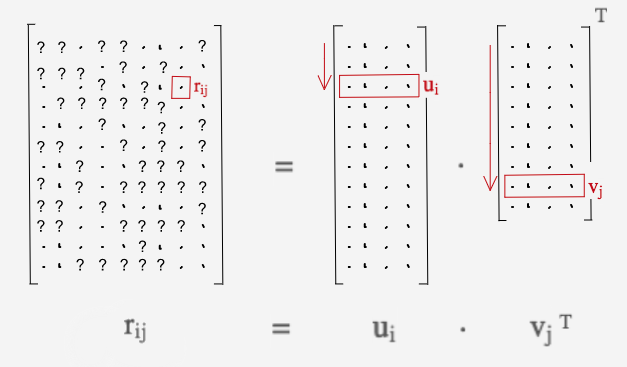
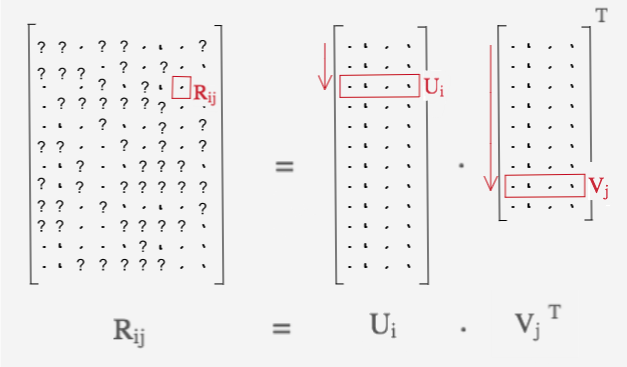
...

diff --git a/content/posts/Collaborative-Filtering-tensorflow.md b/content/posts/Collaborative-Filtering-tensorflow.md
@@ -8,8 +8,6 @@ author: "Safak Ozkan"
 
 ---
 
-<!-- ><p style="color:#cf494f">  $r_{ij}$   </p> -->
-
 ## 1. Problem Description
 We are given a rating matrix $R$ where only a small fraction of the entries $R_{ij}$ are provided; otherwise the rest is missing. The task is to predict those missing entries. As in most Machine Learning problems the assumption here is that there's an underlying stationary pattern as to how users rate the movies.
 
@@ -59,21 +57,21 @@ $U$: user feature matrix
 $V$: movies feature matrix    
 
 <img src="/Drawing.png" alt="Drawing" width="1000" />
-<font size="+1"><strong><p align="center">Figure 1. A conceptual sketch of the Ratings data matrix $R$ decomposed into its factors: user feature matrix, $U$, and movie feature matrix, $V$. Dots in the figure, $\cdot$, illustrate given values; and question marks, $?$, the missing values. Each entry $r_{ij}$ is expressed as a dot product of the user and movie embedding vectors $u_i$ and $v_j$, respectively.</strong></font>  
+<font size="+1"><strong><p align="center">Figure 1. A conceptual sketch of the Ratings data matrix $R$ decomposed into its factors: user feature matrix, $U$, and movie feature matrix, $V$. Dots in the figure, $\cdot$, illustrate given values; and question marks, $?$, the missing values. Each entry $R_{ij}$ is expressed as a dot product of the user and movie embedding vectors $U_i$ and $V_j$, respectively.</strong></font>  
 
 Hence, we formulate the problem as an **optimization problem** and search for $U$ and $V$ by minimizing the following loss function $L$.    
 
 $$argmin_{\ U,V}\ L = ||R - U \cdot V^T||_F^2$$
 
-> *An important point to make is that the Frobenius norm is computed only as a partial summation over the entries in $R$ where a rating is provided.*
+> *It's important to note that the Frobenius norm is computed only as a partial summation over the entries in $R$ where a rating is provided.*
 
 The optimization procedure searches for the values of all entries in $U$ and $V$. There are $(m+n) \times k$ many tunable variables.
 
 The hyperparameter $k$ is to be chosen carefully by cross-validation. A small $k$ would not be enough to explain the pattern in the data adequately (*underfitting*), and too large a $k$ value would result in a model fitting on the random noise over the pattern (*overfitting*).
 
-> *It's worth making a brief interpretation of the feature matrices $U$ and $V$. In the $k$-rank approximation scheme, each rating $r\_{ij}$ is expressed by the dot product $u\_i \cdot v\_j^T$ (see Figure 1). The goal of our optimization routine is for the model to learn a* ***latent feature representation*** *(or alternatively an* ***embedding vector***) *for each user and movie.*   
+> *It's worth making a brief interpretation of the feature matrices $U$ and $V$. In the $k$-rank approximation scheme, each rating $R\_{ij}$ is expressed by the dot product $U\_i \cdot V\_j^T$ (see Figure 1). The goal of our optimization routine is for the model to learn a* ***latent feature representation*** *(or alternatively an* ***embedding vector***) *for each user and movie.*   
 > \
-> *The term* ***latent*** *implies that the features are not explicitly defined by us nor they're definitively interpretable once the embeddings are learned by the model. Each entry in the embedding vectors $u\_i$ and $v\_j$ corresponds to the weight coefficient of an abstract feature. These features can specify the movie genre,  how action-filled or dramatic or any other distinguishing quality that would help characterize how the users rate movies. Hence, the dot product representation of the ratings $r\_{ij} = u\_i \cdot v\_j^T$ points to a* ***linear combination*** *of   
+> *The term* ***latent*** *implies that the features are not explicitly defined by us nor they're definitively interpretable once the embeddings are learned by the model. Each entry in the embedding vectors $U\_i$ and $V\_j$ corresponds to the weight coefficient of an abstract feature. These features can specify the movie genre,  how action-filled or dramatic or any other distinguishing quality that would help characterize how the users rate movies. Hence, the dot product representation of the ratings $R\_{ij} = U\_i \cdot V\_j^T$ points to a* ***linear combination*** *of   
 > \
 > &emsp;&emsp;&emsp; 1. how much that feature is contained in the movie, and    
 > &emsp;&emsp;&emsp; 2. how much that feature is favored by the user.*   
@@ -90,7 +88,7 @@ The hyperparameter $k$ is to be chosen carefully by cross-validation. A small $k
 	- CV Data 16% and
 	- Test Data 20%.
 - We abstain from imposing a **bias term** by enforcing an extra component set to constant $1$ in $U$ and $V$, since the embeddings are free to learn biases if necessary.
-- Since no particular bounds are imposed on the entries in the embedding vectors $u\_{i}$ and $v\_{j}$. The model is free to learn positive or negative real numbers.  
+- Since no particular bounds are imposed on the entries in the embedding vectors $U\_{i}$ and $V\_{j}$. The model is free to learn positive or negative real numbers.  
 
 <div style="width:700 px">
 	<div style="float:left; width:360">
@@ -124,8 +122,8 @@ u_mean = tf.placeholder(dtype=tf.float32, shape=(BATCH_SIZE,1))
 v_mean = tf.placeholder(dtype=tf.float32, shape=(BATCH_SIZE,1)) 
 ```
 
-- At each SGD step a mini-batch of rating data $R_{ij}$ and the corresponding user-movie index pairs $(i,j)$ are fed into the computational graph. Since each $R\_{ij}$ is represented as the dot product $u_i \cdot v_j^T$, we have to stack the corresponding embedding vectors into 2-D tensors `U_stack` and `V_stack` where both `U_stack.getshape()` and `V_stack.getshape()` equal to `(BATCH_SIZE,k)`.   
-The implementation of stacking tensors `tensorflow` is a little trickier than in `numpy`, and it's implemented in the following `get_stacked_UV` module:  
+- At each SGD step a mini-batch of rating data $R_{ij}$ and the corresponding user-movie index pairs $(i,j)$ are fed into the computational graph. Since each $R\_{ij}$ is represented as the dot product $U_i \cdot V_j^T$, we have to stack the corresponding embedding vectors into 2-D tensors `U_stack` and `V_stack` where both `U_stack.getshape()` and `V_stack.getshape()` equal to `(BATCH_SIZE,k)`.   
+The implementation of stacking tensors  on`tensorflow` is a little trickier than in `numpy`. It's done like this:  
 ```python
 def get_stacked_UV(R_indices, R, U, V, k, BATCH_SIZE):
     u_idx = R_indices[:,0]
@@ -162,22 +160,22 @@ R_pred = tf.sigmoid(R_pred) * 5
 $$=> Linear\ Model: MAE (CV) = 0.6237$$
 
 - The rating prediction with cross-features:
-$$r\_{ij} = u\_{i} \cdot v\_{j}^{T} + \sum\_{p=0}^{k}\sum\_{q=0}^{k} w\_{pq} (u\_{ip} \cdot v\_{jq}^{T})$$
+$$R\_{ij} = U\_{i} \cdot V\_{j}^{T} + \sum\_{p=0}^{k}\sum\_{q=0}^{k} w\_{pq} (U\_{ip} \cdot V\_{jq}^{T})$$
 
-- Here, $p^{th}$ feature of user $i$ is getting multiplied with $q^{th}$ feature of movie $j$. This allows the model to learn cross interactions as, for instance, if a user likes the actor Tom Cruise (the $p^{th}$ feature--high  value for $u\_{ip}$), and she doesn't like dark and suspenseful thrillers ($q^{th}$ feature--low value for $u\_{iq}$), however, she likes the movie Eyes Wide Shut (even though it has a high value for $v\_{jq}$), because an underlying reason that makes her not like dark suspenseful movies perhaps disappears if Tom Cruise is in the movie. For a model to capture such a pattern, it has to allow some sort of **nonlinear cross interactions** between features $p$ and $q$.  
+- Here, feature $p$ of user $i$ is getting multiplied by feature $q$ of movie $j$. This allows the model to learn cross interactions as, for instance, if a user likes the actor Tom Cruise (that corresponds a high value for $U\_{ip}$), and she doesn't like dark and suspenseful thrillers ($q^{th}$ feature--low value for $U\_{iq}$), however, she likes the movie Eyes Wide Shut (even though it has a high value for $V\_{jq}$), perhaps because an underlying reason that makes her not like dark suspenseful movies perhaps disappears if Tom Cruise is in the movie. For a model to capture such a pattern, it has to allow some sort of **nonlinear cross feature interactions** between features $p$ and $q$.  
 $$=> Nonlinear\ Model: MAE (CV) = 0.6150$$
 ```
 R_pred = np.dot(U,V) + alpha1*(xft) + alpha2*(uv_sq)
 ```
 
 - The computational price paid for a mere 1% increas in mae rate is that the runtime for one epoch went from $31$ sec for pure linear model to $60$ sec when incorporating all 3 types of nonlinear feature crossings:  
-<p align="center">($u\_{ip}$ ~ $v\_{jq}$),&nbsp; ($u\_{ip}$ ~ $u\_{iq}$),&nbsp; ($v\_{jp}$ ~ $v\_{jq}$)</p>
+<p align="center">($U\_{ip}$ ~ $V\_{jq}$),&nbsp; ($U\_{ip}$ ~ $U\_{iq}$),&nbsp; ($V\_{jp}$ ~ $V\_{jq}$)</p>
 
 
 ## 7. Improvements on the Algorithm
-1. The regularization term needs to take into account the average rating for each user $u\_i$, $\mu_{u_i}$. 
+1. The regularization term needs to take into account the average rating for each user $U\_i$, $\mu_{U_i}$. 
 
-
+ 
 
 
 
